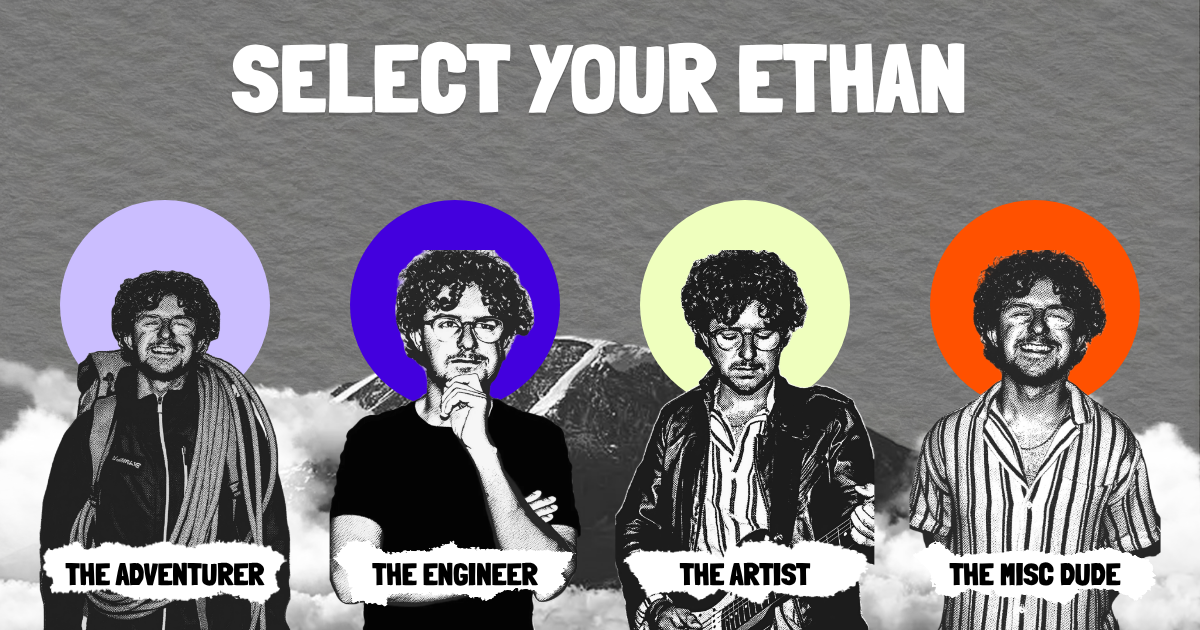
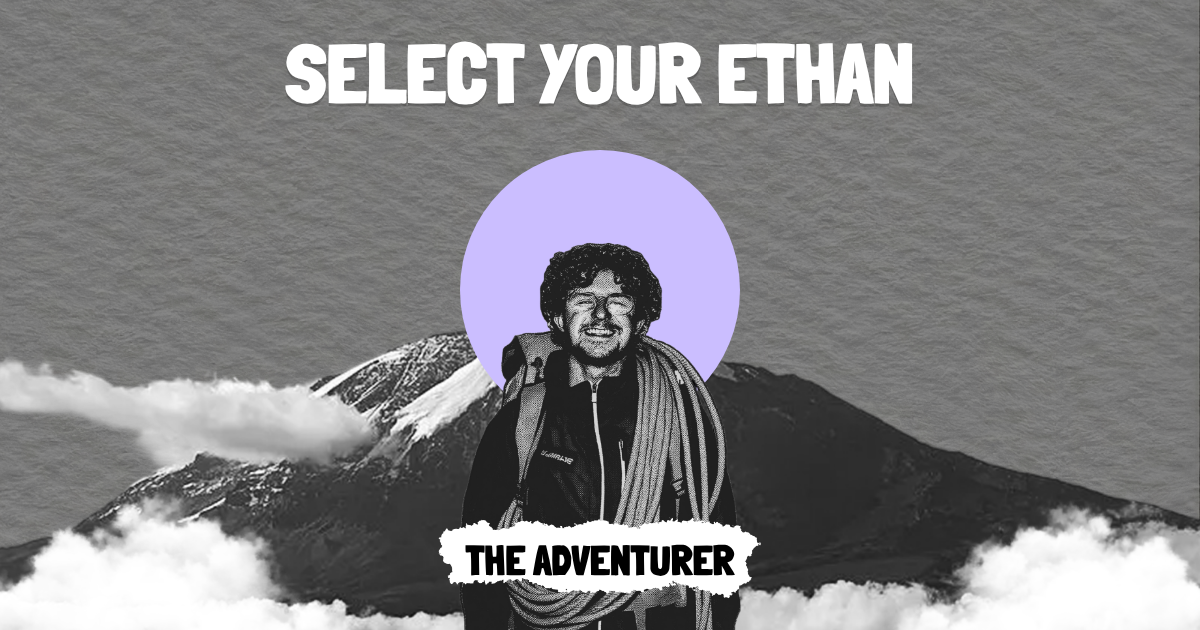
Use centered Adventurer design for social preview card
Claude-Session: https://claude.ai/code/session_01Q7KTxmz8KgNCYN4jiFDbme

diff --git a/app/layout.tsx b/app/layout.tsx
@@ -59,7 +59,7 @@ export const metadata: Metadata = {
         url: "/og-card.png",
         width: 1200,
         height: 630,
-        alt: "Select Your Ethan: the Adventurer, the Engineer, the Artist and the Misc Dude",
+        alt: "Select Your Ethan: The Adventurer",
       },
     ],
   },
